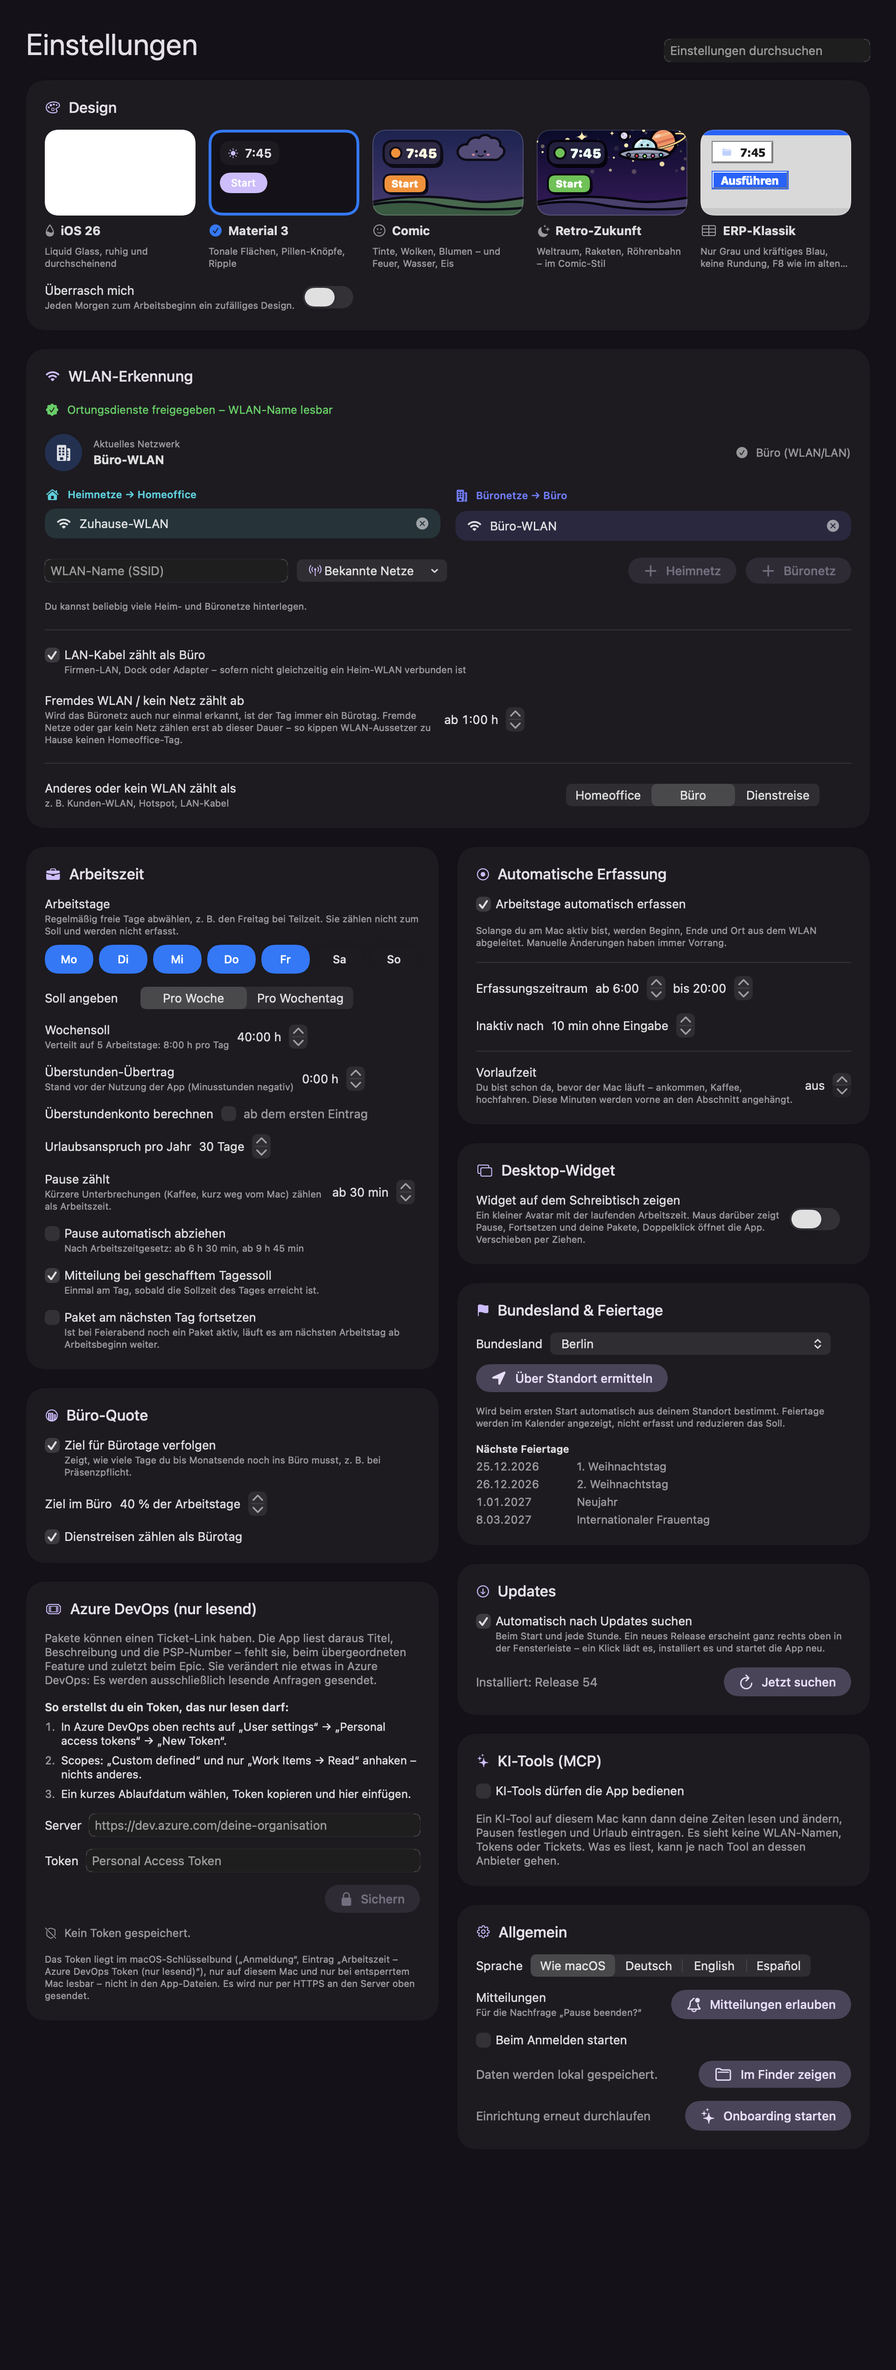
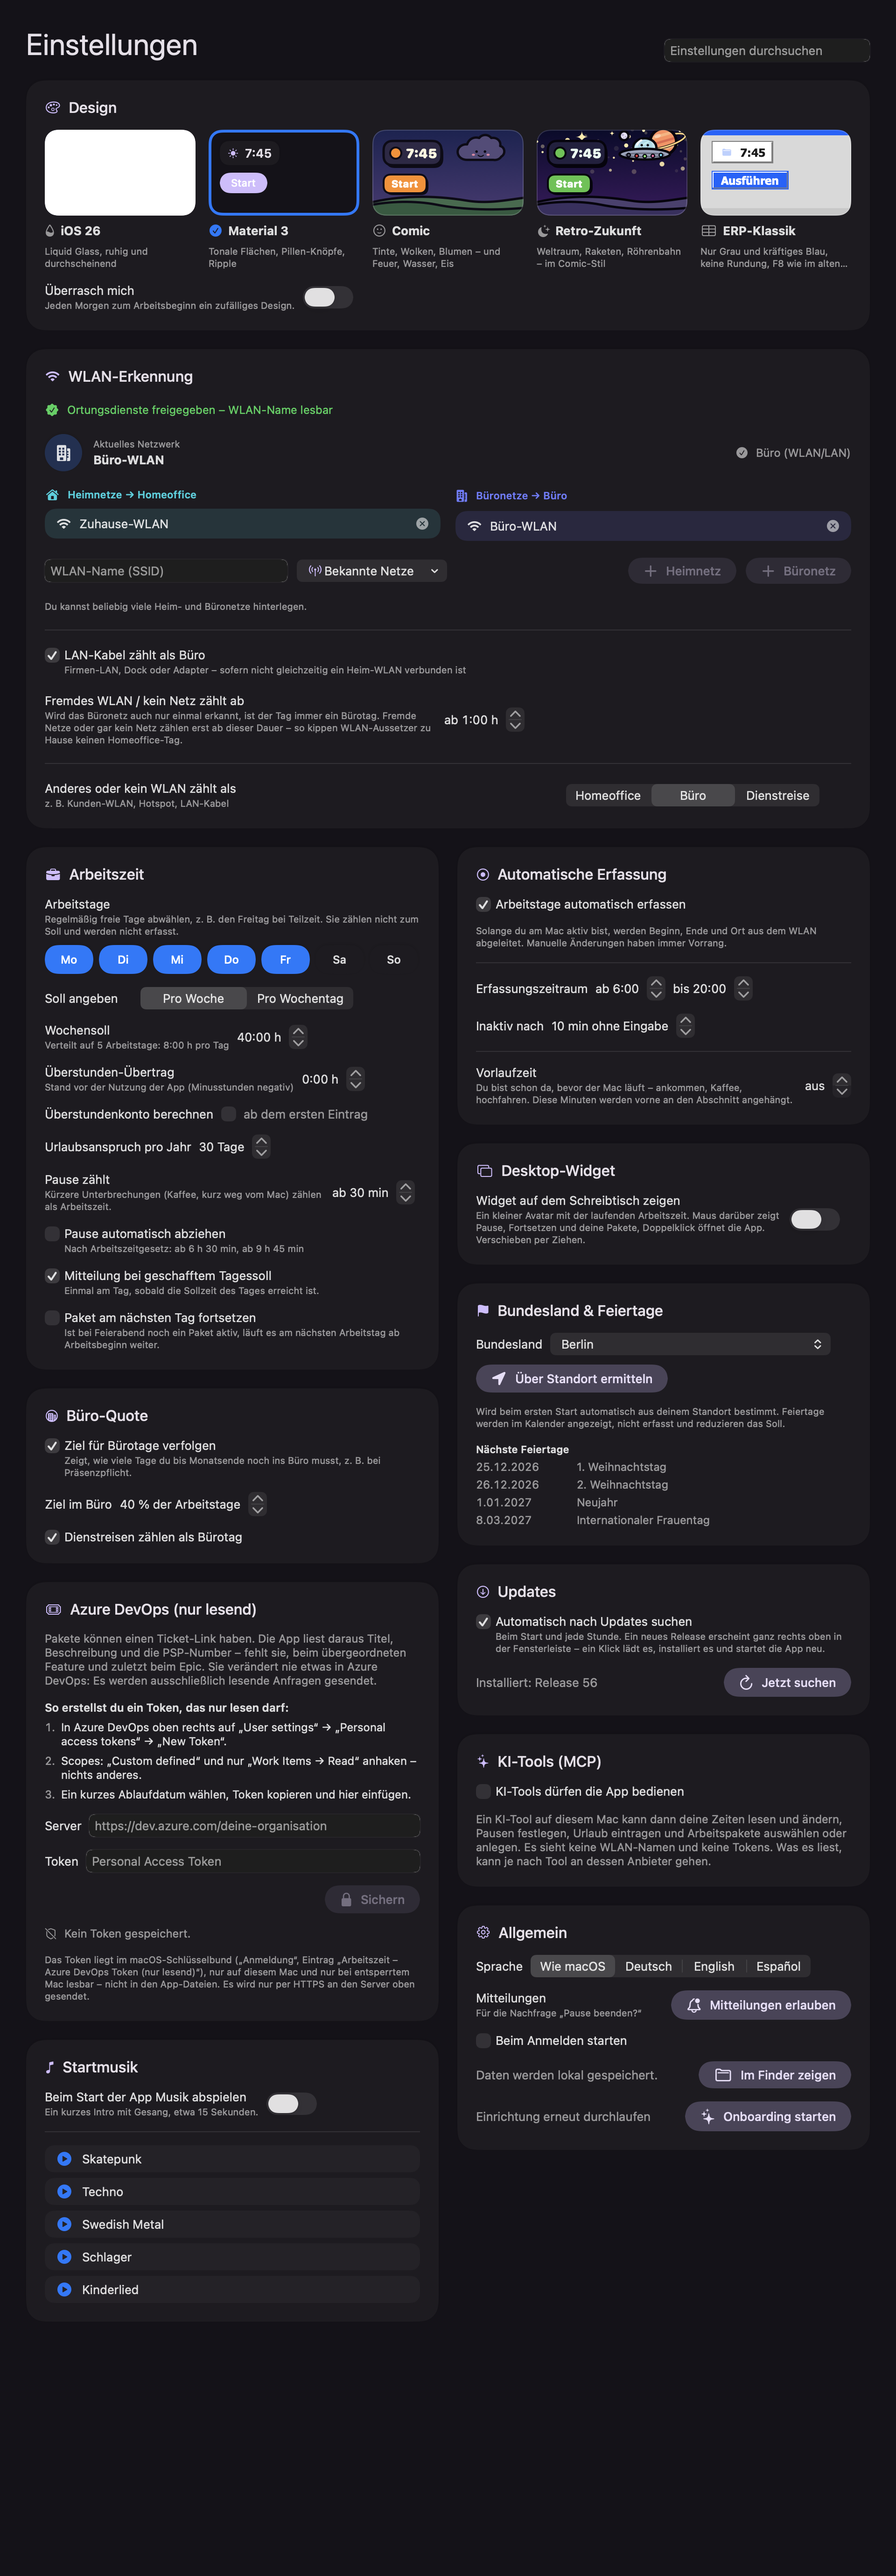
Docs: update description and screenshots

diff --git a/README.md b/README.md
@@ -20,10 +20,11 @@ Work-time tracker for macOS · Arbeitszeiterfassung für macOS
 - **Reminders** – a notification when your daily target is reached, and a prompt to end a break.
 - **Menu bar** – status and controls are always one click away.
 - **Desktop widget** – a small avatar shows your running working time, with its own figure for each design: a flower in Comic, a rocket in Retro Future. Hover over it to pause, resume or start a package, double-click to open the app. It stays in the foreground or sits behind all windows, as you like, and remembers where you put it. If it takes up too much room, dock it to the right edge of the screen: there it shrinks to a small figure with a ring that fills up to your daily target. Hover over it and the full widget slides out; drag it up or down along the edge. A button in the widget switches between both. It never shows up in screen sharing or recordings. Now and then the figure says something in a speech bubble – sayings, real quotes on work with their source, or sayings of your own. In ERP Classic it is a paperclip with glasses and a clipboard.
-- **AI tools (MCP)** – optionally let an AI tool on your Mac, such as Claude or Cursor, operate the app: say "I started at 3 today", "my break was only 30 minutes" or "enter vacation from Monday to Friday", or ask how many office days you still need. It can also switch the desktop widget on or off, dock it to the screen edge or move it there. Off by default.
+- **AI tools (MCP)** – optionally let an AI tool on your Mac, such as Claude or Cursor, operate the app: say "I started at 3 today", "my break was only 30 minutes" or "enter vacation from Monday to Friday", or ask how many office days you still need. It can also switch the desktop widget on or off, dock it to the screen edge or move it there, and pick or create the work package you are working on; with an Azure DevOps ticket the booking number is filled in from the ticket. Off by default.
 - **Five designs, plus your own** – iOS 26, Material 3, Comic, Retro Future and ERP Classic, which uses only gray and blue and has no rounded corners. Can't decide? Switch on "Surprise me" and the app picks a random design every morning when you start work. An AI tool can also create custom designs with your colors, font and rounded corners, and add your own background, logo, card pictures, Dock icon and icons; they then appear in the settings. A custom design can give the desktop widget a look of its own: colors, rounded corners, a picture of your own instead of the figure, a background picture and a bigger or smaller figure at the screen edge.
 - **Searchable settings** – type a word and only the matching settings remain, with the matches highlighted.
-- **Your data stays on your Mac** – there is no account and no cloud. Location Services are only needed because macOS reveals the Wi-Fi name that way; no location data is stored. If you connect an AI tool, what it reads may go to its provider, depending on the tool. It gets your work times and notes, but no Wi-Fi names, tokens or tickets.
+- **Startup music** – if you like, the app plays a short song with vocals when it starts: skate punk, techno, Swedish metal, Schlager or a kids' song. Pick one song or a different one each time, and preview each in the settings. Off by default.
+- **Your data stays on your Mac** – there is no account and no cloud. Location Services are only needed because macOS reveals the Wi-Fi name that way; no location data is stored. If you connect an AI tool, what it reads may go to its provider, depending on the tool. It gets your work times, notes and the names, ticket numbers and booking numbers of your packages, but no Wi-Fi names or tokens.
 
 The app is available in English, German and Spanish. It follows your macOS language, or you choose the language in the settings.
 
@@ -176,10 +177,11 @@ The source code is not hosted here.
 - **Erinnerungen** – eine Mitteilung, wenn das Tagessoll geschafft ist, und eine Nachfrage, wenn die Pause zu Ende sein könnte.
 - **Menüleiste** – Status und Steuerung sind immer einen Klick entfernt.
 - **Desktop-Widget** – ein kleiner Avatar zeigt die laufende Arbeitszeit, je Design eine eigene Figur: im Comic eine Blume, in Retro-Zukunft eine Rakete. Maus darüber zeigt Pause, Fortsetzen und deine Pakete zum Starten, Doppelklick öffnet die App. Es bleibt auf Wunsch im Vordergrund oder liegt hinter allen Fenstern und merkt sich seinen Platz. Braucht es zu viel Platz, dockt es am rechten Bildschirmrand an: Dort ist es eine kleine Figur mit einem Ring, der sich bis zum Tagessoll füllt. Maus darüber klappt das ganze Widget heraus, Ziehen verschiebt es am Rand hoch und runter. Ein Knopf im Widget wechselt zwischen beidem. In Bildschirmfreigaben und Aufnahmen erscheint es nicht. Ab und zu sagt die Figur etwas in einer Sprechblase – Sprüche, echte Zitate zur Arbeit mit Quelle oder eigene Sprüche. In ERP-Klassik ist sie eine Büroklammer mit Brille und Klemmbrett.
-- **KI-Tools (MCP)** – auf Wunsch bedient ein KI-Tool auf deinem Mac, zum Beispiel Claude oder Cursor, die App: Sag „Ich habe heute um 3 angefangen“, „Meine Pause war nur 30 Minuten“ oder „Trag mir von Montag bis Freitag Urlaub ein“, oder frag, wie viele Bürotage dir noch fehlen. Es kann auch das Desktop-Widget ein- und ausschalten, an den Bildschirmrand setzen oder dort verschieben. Standardmäßig aus.
+- **KI-Tools (MCP)** – auf Wunsch bedient ein KI-Tool auf deinem Mac, zum Beispiel Claude oder Cursor, die App: Sag „Ich habe heute um 3 angefangen“, „Meine Pause war nur 30 Minuten“ oder „Trag mir von Montag bis Freitag Urlaub ein“, oder frag, wie viele Bürotage dir noch fehlen. Es kann auch das Desktop-Widget ein- und ausschalten, an den Bildschirmrand setzen oder dort verschieben und das Arbeitspaket auswählen oder anlegen, an dem du gerade arbeitest; bei einem Azure-DevOps-Ticket kommt die Buchungsnummer aus dem Ticket. Standardmäßig aus.
 - **Fünf Designs und eigene** – iOS 26, Material 3, Comic, Retro-Zukunft und ERP-Klassik, das nur Grau und Blau kennt und keine Rundungen hat. Kannst du dich nicht entscheiden? Mit „Überrasch mich“ wählt die App jeden Morgen zum Arbeitsbeginn ein zufälliges Design. Ein KI-Tool kann außerdem eigene Designs mit deinen Farben, deiner Schrift und deinen Rundungen anlegen und ihnen eigene Hintergründe, ein Logo, Kartenbilder, ein Dock-Symbol und Icons geben; sie stehen dann in den Einstellungen. Ein eigenes Design kann auch dem Desktop-Widget eine eigene Optik geben: Farben, Rundungen, ein eigenes Bild statt der Figur, ein Hintergrundbild und eine größere oder kleinere Figur am Bildschirmrand.
 - **Durchsuchbare Einstellungen** – ein Wort eintippen, und nur die passenden Einstellungen bleiben stehen, die Treffer sind markiert.
-- **Deine Daten bleiben auf deinem Mac** – kein Konto, keine Cloud. Die Ortungsdienste braucht die App nur, weil macOS den WLAN-Namen so herausgibt; Standortdaten werden nicht gespeichert. Wenn du ein KI-Tool verbindest, kann das, was es liest, je nach Tool an dessen Anbieter gehen. Es bekommt deine Arbeitszeiten und Notizen, aber keine WLAN-Namen, Tokens oder Tickets.
+- **Startmusik** – auf Wunsch spielt die App beim Start ein kurzes Lied mit Gesang: Skate-Punk, Techno, Schwedenmetal, Schlager oder Kinderlied. Ein festes Lied oder jedes Mal ein anderes, jedes lässt sich in den Einstellungen vorher anhören. Standardmäßig aus.
+- **Deine Daten bleiben auf deinem Mac** – kein Konto, keine Cloud. Die Ortungsdienste braucht die App nur, weil macOS den WLAN-Namen so herausgibt; Standortdaten werden nicht gespeichert. Wenn du ein KI-Tool verbindest, kann das, was es liest, je nach Tool an dessen Anbieter gehen. Es bekommt deine Arbeitszeiten, Notizen sowie Namen, Ticket- und Buchungsnummern deiner Pakete, aber keine WLAN-Namen und keine Tokens.
 
 Die App gibt es auf Deutsch, Englisch und Spanisch. Sie folgt der Sprache von macOS, oder du wählst die Sprache in den Einstellungen.
 
